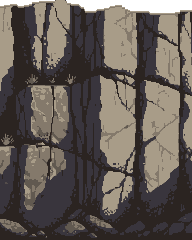
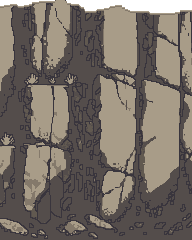
Lanternhold look 2, stage 2, the cliffs at dusk (open point of section 9): the cleft's flanks and throat without soil darks, gamma 0.7, and the inside of every shadowed slab one step up (rockDark; only cracks and slab edges stay rockDeep): at dusk the flanks 0.149 and 0.135 (were 0.131 and 0.109), t

diff --git a/games/lanternhold/tools/worldart.py b/games/lanternhold/tools/worldart.py
@@ -327,6 +327,9 @@ def cmd_retex(a):
     def solid(x, y):
         return 0 <= x < shape.w and 0 <= y < shape.h and shape.get(x, y)[3] > 0
 
+    def deep(x, y):
+        return rock.get(min(max(x, 0), rock.w - 1), min(max(y, 0), rock.h - 1))[:3] == col("rockDeep")[:3]
+
     for y in range(shape.h):
         for x in range(shape.w):
             if not solid(x, y):
@@ -334,6 +337,8 @@ def cmd_retex(a):
             p = rock.get(min(x, rock.w - 1), min(y, rock.h - 1))
             if not p[3]:
                 p = col("rockDark")
+            elif deep(x, y) and all(deep(x + i, y + j) for i in (-1, 0, 1) for j in (-1, 0, 1)):
+                p = col("rockDark")  # the inside of a shadowed slab one step up: only cracks and slab edges stay rockDeep
             if y > 0 and not solid(x, y - 1):
                 p = col("rockPale")
             elif y > 1 and not solid(x, y - 2):
